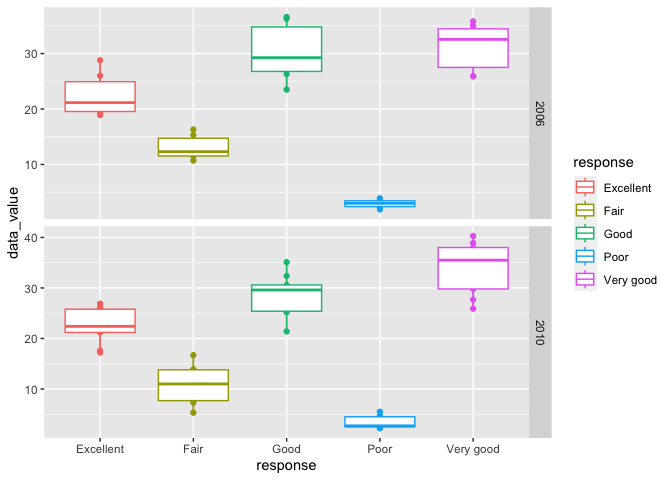
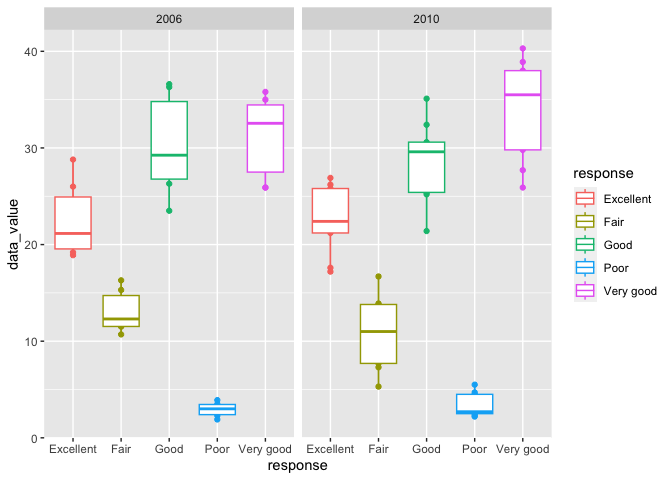
Changing the plot into vertical panel

diff --git a/p8105_hw3_ht2607.md b/p8105_hw3_ht2607.md
@@ -232,7 +232,7 @@ q1_d=
   ggplot(aes(x = response, y = data_value, color = response)) +
   geom_point() + geom_line() +
   geom_boxplot() +
-  facet_grid(year ~ ., scales = "free_y")
+  facet_grid(. ~ year, scales = "free_y")
   labs(
     x = "Response",
     y = "Data Value",
@@ -349,7 +349,7 @@ women in each education category
 covar |> 
  ggplot(aes(x = age, fill = sex)) +
   geom_density(alpha = .5) + 
-  facet_grid(education ~ .) + 
+  facet_grid(. ~ education) + 
   labs(
     x = "Age",
     y = "Count",
@@ -406,11 +406,12 @@ covar |>
 
 In the visualization of the age distribution for men and women in each
 education category, we can see that more females that is less than age
-of 50 are in the more than high school education category. Also, we can
-see that there is more females that age more than 60 are in the high
-school equivalent education category. Additionally, there is more males
-that age less than 50 are in the high school equivalent education
-category.
+of 50 are in the more than high school education category. It is obvious
+that the peak of the plot in the more than high school category is much
+higher among the mid 30 female. Also, we can see that there is more
+females that age more than 60 are in the high school equivalent
+education category. Additionally, there is more males that age less than
+50 are in the high school equivalent education category.
 
 Plot these total activities (y-axis) against age (x-axis); your plot
 should compare men to women and have separate panels for each education
@@ -423,7 +424,7 @@ q3tidy_df|>
   ggplot(aes(x = age, y = Total_Activity, color = sex)) + 
     geom_point(alpha = .5) +
     geom_smooth(se = FALSE) + 
-    facet_grid(education ~ .) +
+    facet_grid(. ~ education) +
     labs(
       x = "Age",
       y = "Total Activity",
@@ -463,7 +464,7 @@ q3tidy_df |>
   ggplot(aes(x = minutes, y = mins, color = sex)) +
     geom_point(alpha = .5) +
   geom_smooth(se = FALSE) +
-    facet_grid(education ~ .) +
+    facet_grid(. ~ education) +
     labs(
       x = "Minute of the Day",
       y = "mins",
